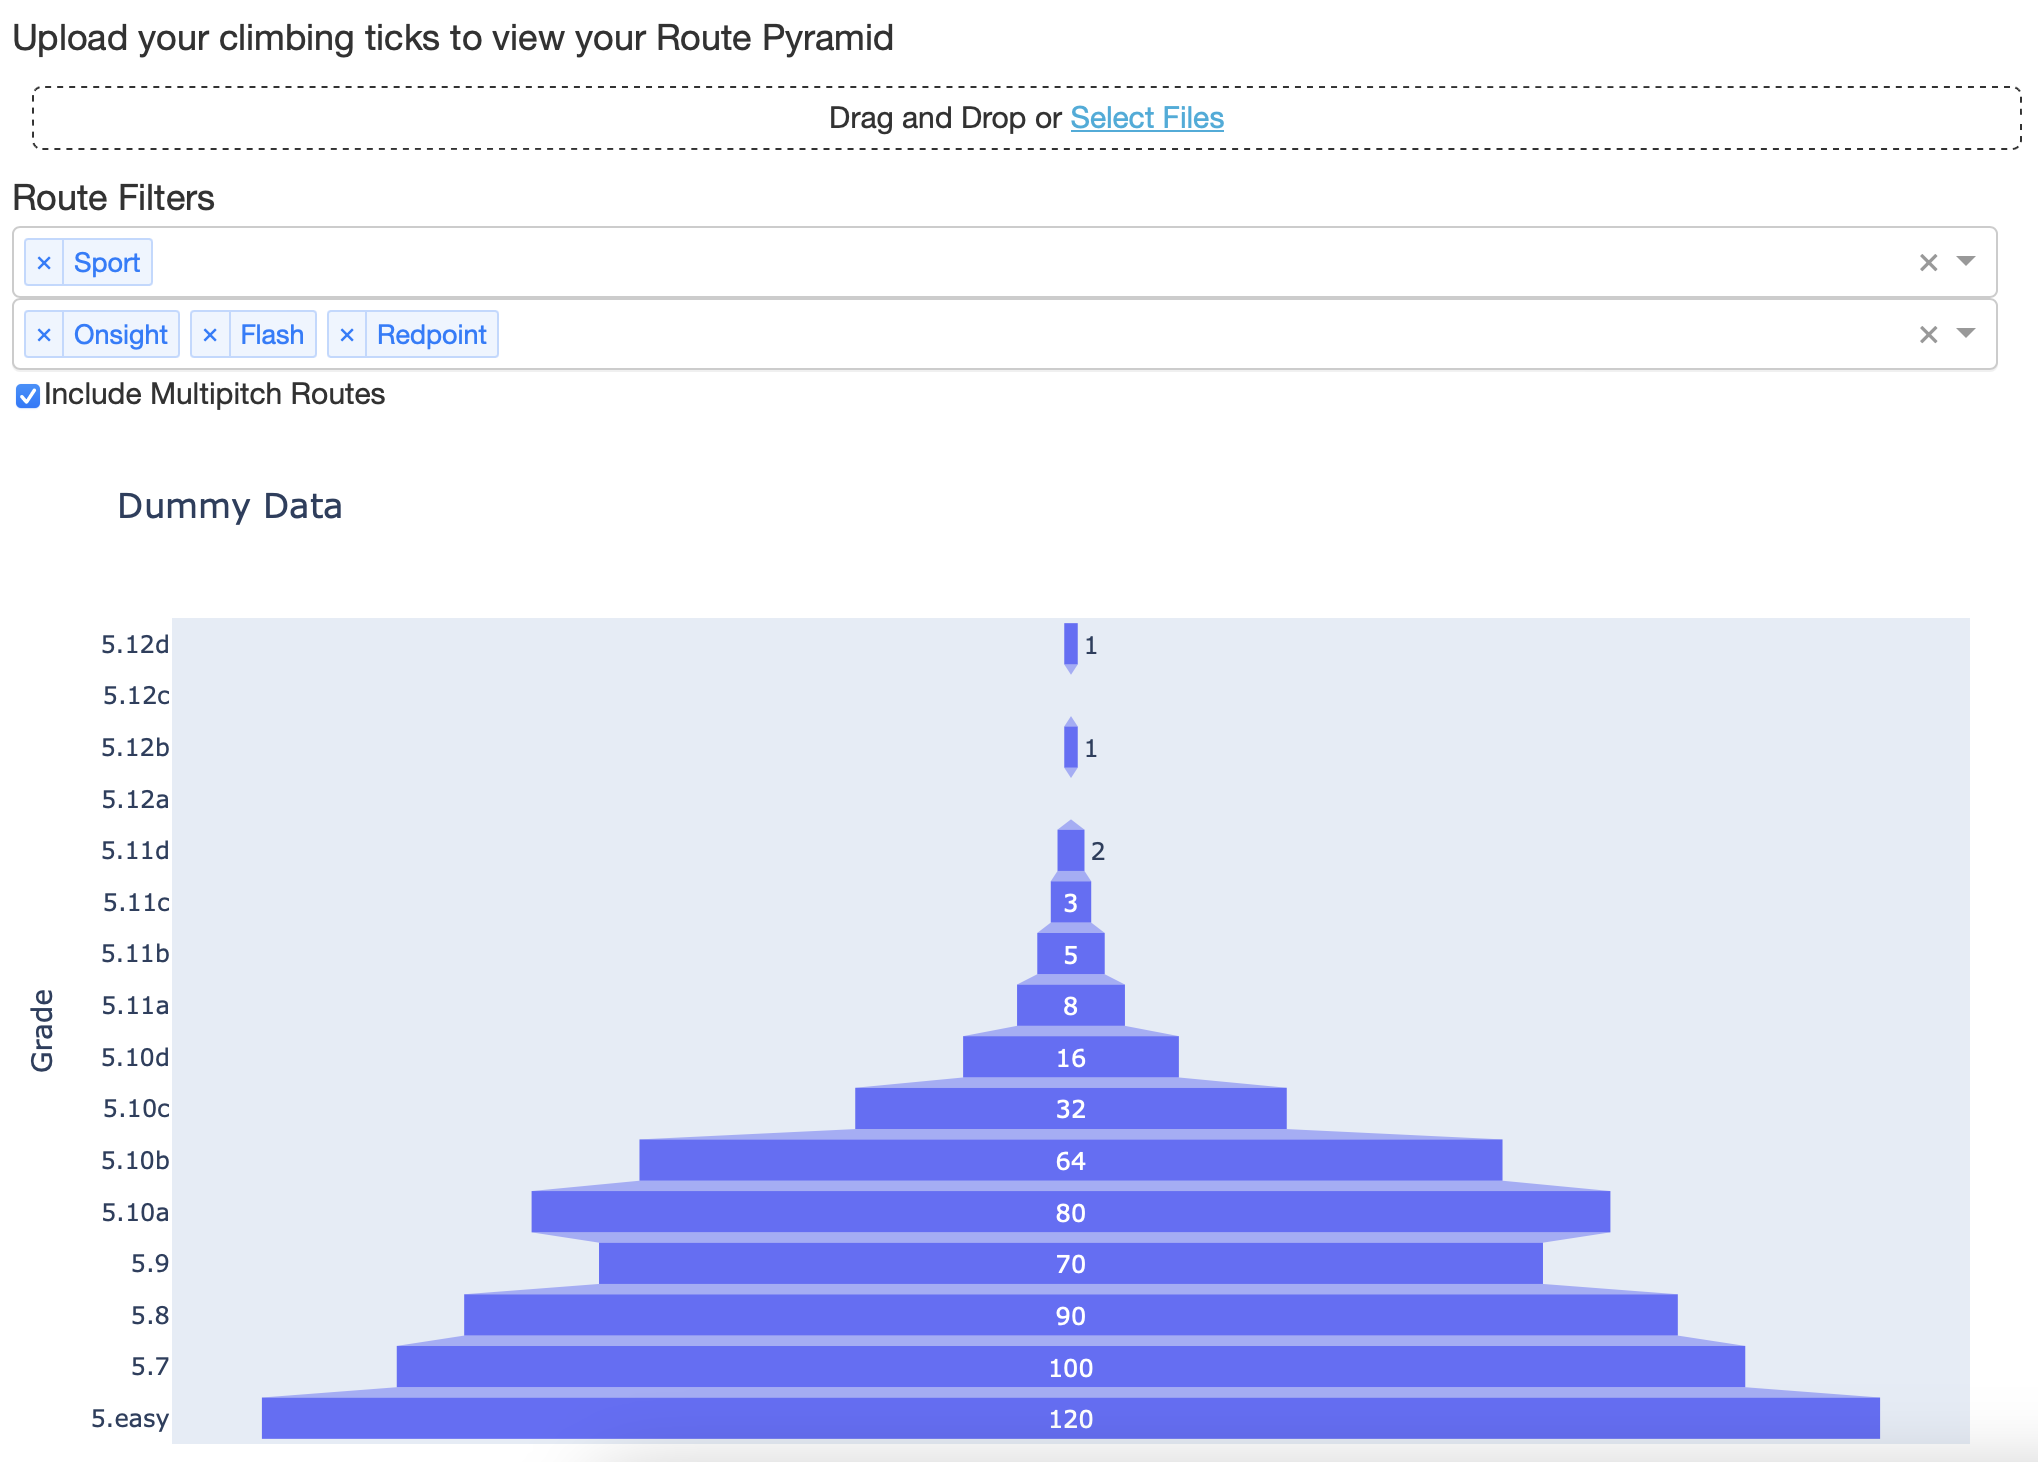
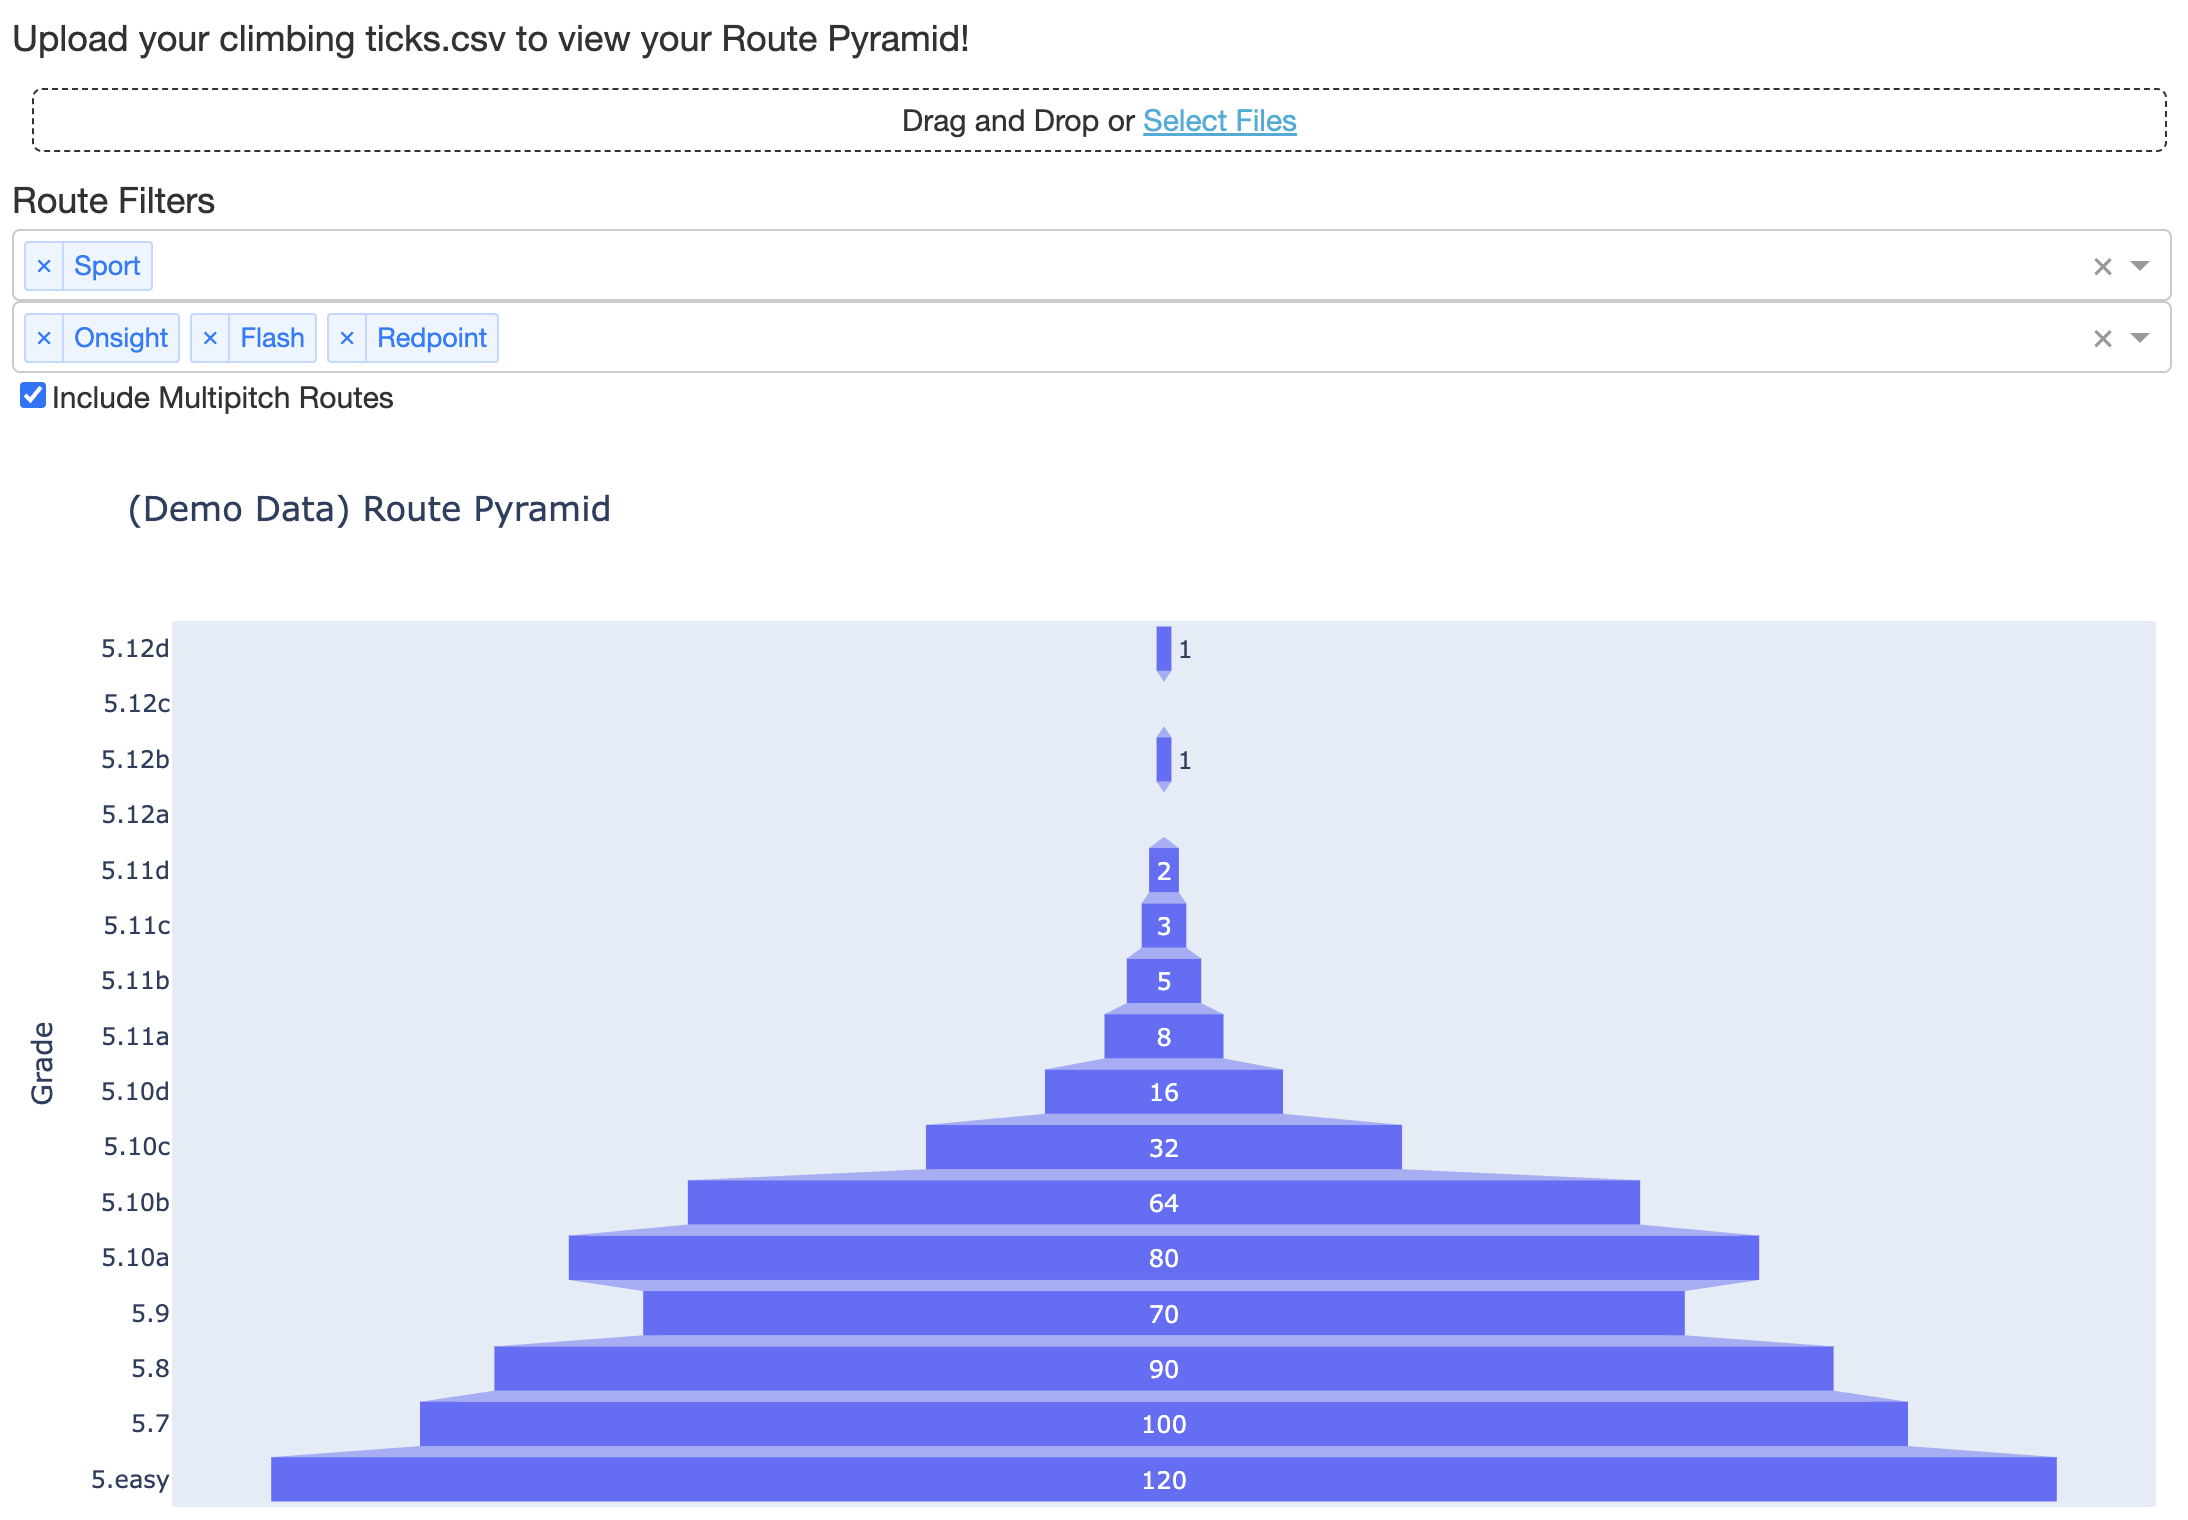
minor tweaks to UI

diff --git a/app.py b/app.py
@@ -16,12 +16,12 @@ app = dash.Dash(__name__, external_stylesheets=['https://codepen.io/chriddyp/pen
 
 # Define the layout of the app
 app.layout = html.Div([
-    html.Div(children=['Upload your climbing ticks to view your Route Pyramid'],
+    html.Div(children=['Upload your climbing ticks.csv to view your Route Pyramid!'],
              style={'fontSize': '18px'}),
     dcc.Upload(
         id='upload-data',
         children=html.Div(['Drag and Drop or ',html.A('Select Files')]),
-        style={'width': '75vw',
+        style={'width': '74vw',
                'height': '30px',
                'lineHeight': '30px',
                'borderWidth': '1px',
@@ -91,7 +91,7 @@ def update_output(contents, criteria_type, criteria_send, criteria_multi, filena
             Grade=["5.12d", "5.12c", "5.12b", "5.12a", "5.11d",
                    "5.11c", "5.11b", "5.11a", "5.10d", "5.10c",
                    "5.10b", "5.10a", "5.9", "5.8", "5.7", "5.easy"])
-        return px.funnel(dummy, x='Routes', y='Grade', title='Dummy Data')
+        return px.funnel(dummy, x='Routes', y='Grade', title="(Demo Data) Route Pyramid")
     else:
         fig = parse_contents(contents, filename, criteria_type, criteria_send, criteria_multi)
         return fig
